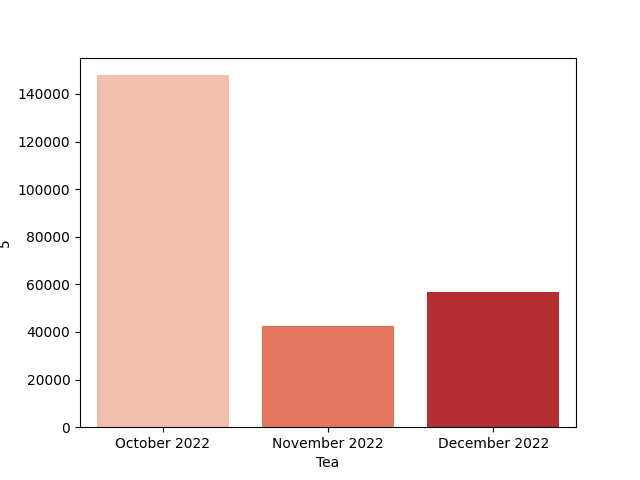
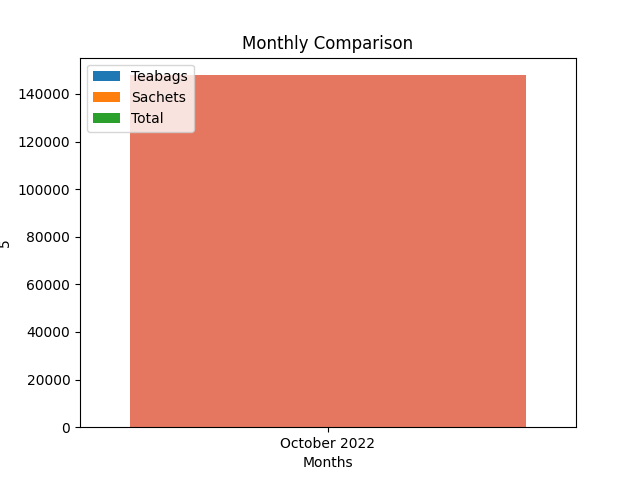
final

diff --git a/templates/statistics.html b/templates/statistics.html
@@ -38,8 +38,7 @@
 
     </div>
     
-        
-    
+   
 
    
    <br>
@@ -56,27 +55,14 @@
 
     <div id="middlebox">
 
-            <div >
-                <h2> TEABAGS IN MONTHS</h2>
-                <img src='./static/uploads/tbs.png' width="370" height="300"/>
+            
 
-            </div>
-
-             <br>
-
-            <div >
-                <h2> SACHETS IN MONTHS</h2>
-                <img src='./static/uploads/sachet.png' width="370" height="300"/>
-
-            </div>
-
-            <br>
-
-            <div>
-                <h2> TOTAL UNITS IN MONTHS</h2>
-                <img src='./static/uploads/units.png' width="370" height="300"/>
+             <div>
+                <h2> Comparison</h2>
+                <img src='./static/uploads/multiple.png' width="670" height="500"/>
 
              </div>
+
 
 
 

diff --git a/templates/layout.html b/templates/layout.html
@@ -14,9 +14,9 @@
 
 
     {% if title %}
-        <title>Flask Blog - {{title}}</title>
+        <title>Zealong Factory {{title}}</title>
     {% else %}
-        <title>Flask Blog</title>
+        <title>Zealong Factory</title>
     {% endif %}
 
 </head>
@@ -34,6 +34,7 @@
                 <a class="nav-item nav-link" href="{{url_for('packaging')}}">Packaging</a>
                 <a class="nav-item nav-link" href="{{url_for('inventory')}}">Inventory</a>
                 <a class="nav-item nav-link" href="{{url_for('operations')}}">Daily Operations</a>
+                <a class="nav-item nav-link" href="{{url_for('overallstats')}}">Statistics</a>
                 
                 
 

diff --git a/templates/operationschart.html b/templates/operationschart.html
@@ -4,7 +4,7 @@
     <h1 class="article-title">Operations Chart</h1>
 
     <div class="content-section ">
-        <p class="text-secondary" > Tea needed could be uploaded in csv format over here. The uploaded tea may be found in the current tea in demand section.  </p>
+        <p class="text-secondary" > Select a month to view operations. </p>
     
         <a class="btn btn-secondary w3-button btn-block w3-hover-black" href="{{url_for('month')}}">Select Month </a>
         

diff --git a/templates/overallstats.html b/templates/overallstats.html
@@ -1,0 +1,23 @@
+{% extends "layout.html" %}
+{% block content %}
+
+
+  </head>
+  <body>
+    <h1>Stats</h1>
+    <h5>FROM</h5>
+    <input class="form-group" type="month"  name="date" placeholder="Date" required="required" />
+    <br>
+    <h5>TO</h5>
+    <input class="form-group" type="month"  name="date" placeholder="Date" required="required" />
+       
+       
+           
+
+      
+     
+
+    </body>
+</html>
+
+{% endblock content %}

diff --git a/app.py b/app.py
@@ -6,6 +6,8 @@ import pickle
 import os
 import calendar
 from werkzeug.utils import secure_filename
+import matplotlib.pyplot as plt
+import numpy as np
 
 app=Flask(__name__, static_folder='static')
 # Define folder to save uploaded files to process further
@@ -26,6 +28,8 @@ app.secret_key = 'This is your secret key to utilize session in Flask'
 global overall_dict
 overall_dict={}
 
+#
+df_barchart = pd.DataFrame({ 'Month': [],'Tbs': [],'Sachets': [], 'Total':[]})
 
 
 
@@ -43,8 +47,10 @@ def operations():
 
 
 @app.route('/overallstatistics')
-def overallstatistics():
-    pass
+def overallstats():
+    df = pd.read_csv('./static/uploads/dailyoperation.csv')
+    
+    return render_template('overallstats.html')
 
 
 
@@ -96,29 +102,88 @@ def statistics():
     c= d+' ' +str(y)
     lst= [ c, y, d, tbs_total, sachet_count, total_units]
     overall_dict[c]= lst
+
+    lst_bar= [c,tbs_total, sachet_count, total_units]
+
+    ########################################################################
+    mnths=[]
+    if len(df_barchart)==0:
+        df_barchart.loc[0]=lst_bar
+    else:
+        for i in range(len(df_barchart)):
+            mnths.append(df_barchart.loc[i][0])
+        if c in mnths:
+            a=mnths.index(c)
+            df_barchart.loc[a]=lst_bar
+        else:
+            df_barchart.loc[len(df_barchart)]=lst_bar
+    
+    df1= df_barchart
+    X = df1.Month
+    tbs = df1.Tbs
+    sachets = df1.Sachets
+    units=df1.Total
+    
+    
+    X_axis = np.arange(len(X))  
+    
+    
+    plt.bar(X_axis - 0.08, tbs, 0.1, label = 'Teabags')
+    plt.bar(X_axis + 0.01, sachets, 0.1, label = 'Sachets')
+    plt.bar(X_axis + 0.1, units, 0.1, label = 'Total')
+    
+    
+    plt.xticks(X_axis, X,fontsize=6)
+    plt.xlabel("Months" )
+    plt.ylabel("Number")
+    plt.title("Monthly Comparison")
+    plt.legend()
+    plt.savefig("./static/uploads/multiple.png")
+
+
+    ################################################################
+
+
+
+
+
     overall= pd.DataFrame(overall_dict)
 
 
-    df_sachet=pd.DataFrame((overall.loc[4]))
-    plot_sachet=sns.barplot(data=df_sachet, x=df_sachet.index, y=4,  palette = "Blues")
-    fig_sachet = plot_sachet.get_figure()
-    fig_sachet.savefig("./static/uploads/sachet.png")
+    #df_sachet=pd.DataFrame((overall.loc[4]))
+    #plot_sachet=sns.barplot(data=df_sachet, x=df_sachet.index, y=4,  palette = "Blues")
+    #fig_sachet = plot_sachet.get_figure()
+    #fig_sachet.savefig("./static/uploads/sachet.png")
 
-    df_tbs=pd.DataFrame((overall.loc[3]))
-    plot_tbs=sns.barplot(data=df_tbs, x=df_tbs.index, y=3, palette = "Greys")
-    fig_tbs = plot_tbs.get_figure()
-    fig_tbs.savefig("./static/uploads/tbs.png")
-
-    
-    
-
-    df_units=pd.DataFrame((overall.loc[5]))
-    plot_units=sns.barplot(data=df_units, x=df_tbs.index, y=5,  palette = "Reds")
-    fig_units = plot_units.get_figure()
-    fig_units.savefig("./static/uploads/units.png")
-
+    #df_tbs=pd.DataFrame((overall.loc[3]))
+    #plot_tbs=sns.barplot(data=df_tbs, x=df_tbs.index, y=3, palette = "Greys")
+    #fig_tbs = plot_tbs.get_figure()
+    #fig_tbs.savefig("./static/uploads/tbs.png")
 
     
+    
+
+    #df_units=pd.DataFrame((overall.loc[5]))
+    #plot_units=sns.barplot(data=df_units, x=df_tbs.index, y=5,  palette = "Reds")
+    #fig_units = plot_units.get_figure()
+    #fig_units.savefig("./static/uploads/units.png")
+
+
+    #all month stats in multiple bar chart 
+
+    
+
+
+    #multiple_bar=df_barchart.plot(x="Month", y=["Tbs", "Sachets",'Total'], kind="bar")
+    
+    
+   
+    #fig_bar = multiple_bar.get_figure()
+    
+    #fig_bar.savefig("./static/uploads/multiple.png", dpi=100)
+        
+
+    bar_html = df_barchart.to_html(classes='table table-stripped')
     
     overall_html = overall.to_html(classes='table table-stripped')
    
@@ -127,7 +192,7 @@ def statistics():
 
     
 
-    return render_template('statistics.html', data_var12=d, w=w , dict1=dict1, sachet_count=sachet_count , tbs_total=tbs_total, total_units=total_units, overall_dict=overall_html)
+    return render_template('statistics.html', data_var12=d, w=w , dict1=dict1, sachet_count=sachet_count , tbs_total=tbs_total, total_units=total_units, overall_dict=overall_html, bar_html=bar_html)
 
 
 @app.route('/month')
@@ -233,6 +298,7 @@ def month1():
                 weight_dict_monthly['Count']=lst_count  
 
     monthly_table = pd.DataFrame(weight_dict_monthly)
+    #monthly_table= monthly_table.sort_values(by='DATE',ascending=True,inplace=True)
     monthly_table_display = monthly_table.to_html(classes='table table-stripped')
     session["monthly_table"]=monthly_table_display
     session["monthly_table_dict"]=weight_dict_monthly
@@ -249,7 +315,8 @@ def add():
     d=np.array(data)
     daily_operation = pd.read_csv('./static/uploads/dailyoperation.csv')
     daily_operation.loc[len(daily_operation)+1] =d
-    daily_operation= daily_operation.sort_index(ascending=False)
+    #daily_operation= daily_operation.sort_index(ascending=False)
+    daily_operation= daily_operation.sort_values(by='DATE', ascending=False)
     
 
 
